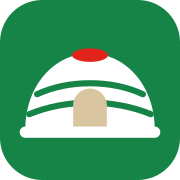
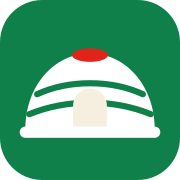
Применить утверждённую палитру З3 и Б1

Changed region(s): [[0.3889, 0.4722, 0.6111, 0.7222]]

diff --git a/assets/css/style.css b/assets/css/style.css
@@ -28,14 +28,14 @@
 
 /* ---------- Tokens ---------- */
 :root {
-  --green: #178447;        /* зелёный рамки коробок, на тон глубже ради контраста белого текста */
-  --green-deep: #126B3A;
-  --green-night: #0B4A28;
+  --green: #0F8049;        /* З3 по карте цветов */
+  --green-deep: #0D6A3D;
+  --green-night: #0A4A2B;
   --green-soft: #E4F1E8;
   --red: #C62025;          /* красный заголовков на коробках */
-  --beige: #D9C5A0;        /* бежевый костюмов и юрты: плашки, вкладка «+», главное действие */
-  --beige-light: #EBDDC2;
-  --beige-soft: #F1E7D3;
+  --beige: #F6EEDF;        /* Б1 по карте цветов, светлый молочный */
+  --beige-light: #FBF6ED;
+  --beige-soft: #F3E9D9;
   --ink: #16201A;
   --ink-2: #3D4A41;
   --paper: #F3F6F1;
@@ -151,7 +151,7 @@ p, li, dd { text-wrap: pretty; }
 .langcard__deck span:first-child { transform: rotate(5deg) translate(14px, 10px); opacity: .55; }
 .langcard__deck span:last-child { transform: rotate(2.5deg) translate(6px, 4px); opacity: .8; }
 .langcard__card { position: relative; min-height: clamp(400px, 28vw + 120px, 540px); border-radius: 4px var(--radius) var(--radius) var(--radius); background: var(--card); color: var(--ink); box-shadow: var(--shadow-lift); transform-style: preserve-3d; backface-visibility: hidden; }
-.langcard__card::before { content: ""; position: absolute; inset: 12px; border: 1.5px solid rgba(23, 132, 71, .35); border-radius: 14px; pointer-events: none; }
+.langcard__card::before { content: ""; position: absolute; inset: 12px; border: 1.5px solid rgba(15, 128, 73, .35); border-radius: 14px; pointer-events: none; }
 .langcard__face, .langcard__plus { position: relative; height: 100%; min-height: inherit; padding: clamp(1.6rem, 1rem + 2vw, 2.6rem); display: flex; flex-direction: column; }
 .langcard__word { margin-top: .4rem; font: 800 clamp(3rem, 1.6rem + 4.6vw, 5.75rem)/.95 var(--font-display); letter-spacing: -.02em; color: var(--red); overflow-wrap: anywhere; }
 .langcard__name { margin-top: .9rem; display: flex; flex-wrap: wrap; align-items: center; gap: .5rem .75rem; font-size: 1.0625rem; font-weight: 600; color: var(--ink-2); }
@@ -174,7 +174,7 @@ p, li, dd { text-wrap: pretty; }
 .triad { display: grid; gap: .1rem; padding-block: .4rem; font: 700 clamp(1.5rem, 1.1rem + 1.4vw, 2.25rem)/1.18 var(--font-display); color: var(--ink); }
 .triad em { font-style: normal; color: var(--green); }
 .alphabet { background: var(--card); border-radius: var(--radius); padding: clamp(1.25rem, 1rem + 1.5vw, 2rem); box-shadow: var(--shadow-card); position: relative; }
-.alphabet::before { content: ""; position: absolute; inset: 10px; border: 1.5px solid rgba(23, 132, 71, .3); border-radius: 14px; pointer-events: none; }
+.alphabet::before { content: ""; position: absolute; inset: 10px; border: 1.5px solid rgba(15, 128, 73, .3); border-radius: 14px; pointer-events: none; }
 .alphabet__grid { display: grid; grid-template-columns: repeat(3, 1fr); gap: 10px; }
 .alphabet__grid li { aspect-ratio: 1; display: grid; place-items: center; border-radius: 14px; background: var(--paper); font: 800 clamp(2.4rem, 1.6rem + 2.6vw, 3.75rem)/1 var(--font-display); color: var(--red); transition: transform .35s var(--ease-out), background-color .2s, color .2s; }
 .alphabet__grid li:nth-child(3n + 2) { color: var(--green); }
@@ -196,8 +196,8 @@ p, li, dd { text-wrap: pretty; }
 .filter .tab.is-active { background: var(--green); color: #fff; }
 .games__grid { margin-top: clamp(1.5rem, 1rem + 1.5vw, 2.25rem); display: grid; grid-template-columns: repeat(auto-fill, minmax(min(100%, 270px), 1fr)); grid-auto-flow: dense; gap: clamp(14px, 1.4vw, 22px); }
 .game { position: relative; display: flex; flex-direction: column; background: var(--card); border-radius: var(--radius); box-shadow: 0 0 0 1px var(--line); transition: box-shadow .3s var(--ease-out), transform .35s var(--ease-out); }
-.game::before { content: ""; position: absolute; inset: 7px; border: 1px solid rgba(23, 132, 71, .16); border-radius: 16px; pointer-events: none; }
-.game:hover { box-shadow: 0 0 0 1px rgba(23, 132, 71, .45), var(--shadow-card); transform: translateY(-3px); }
+.game::before { content: ""; position: absolute; inset: 7px; border: 1px solid rgba(15, 128, 73, .16); border-radius: 16px; pointer-events: none; }
+.game:hover { box-shadow: 0 0 0 1px rgba(15, 128, 73, .45), var(--shadow-card); transform: translateY(-3px); }
 .game[hidden] { display: none; }
 .game__media { position: relative; aspect-ratio: 4 / 3; }
 .game__media img { position: absolute; top: 16px; left: 16px; width: calc(100% - 32px); height: calc(100% - 24px); object-fit: contain; }
@@ -262,7 +262,7 @@ p, li, dd { text-wrap: pretty; }
 .docs { display: grid; gap: clamp(2.25rem, 1.5rem + 2vw, 3.5rem); }
 .docs .carousel__track { grid-auto-columns: 32%; }
 .letter { position: relative; display: grid; grid-template-columns: 36% minmax(0, 1fr); gap: 1rem; height: 100%; padding: 12px; border-radius: 18px; background: var(--card); box-shadow: 0 0 0 1px var(--line); transition: transform .35s var(--ease-out), box-shadow .3s var(--ease-out); }
-.letter:hover { transform: translateY(-3px); box-shadow: 0 0 0 1px rgba(23, 132, 71, .45), var(--shadow-card); }
+.letter:hover { transform: translateY(-3px); box-shadow: 0 0 0 1px rgba(15, 128, 73, .45), var(--shadow-card); }
 .letter a { display: block; align-self: start; padding: 5px; border-radius: 5px; background: #fff; box-shadow: 0 2px 10px -3px rgba(7, 63, 34, .35); }
 .letter a::after { content: ""; position: absolute; inset: 0; border-radius: inherit; } /* the whole card opens the document */
 .letter img { aspect-ratio: 520 / 735; width: 100%; object-fit: cover; object-position: top; border-radius: 2px; }
@@ -287,7 +287,7 @@ p, li, dd { text-wrap: pretty; }
 .team { position: relative; margin-top: clamp(2.5rem, 2rem + 2.5vw, 4rem); }
 .team .carousel__track { position: relative; z-index: 2; grid-auto-columns: 212px; }
 .person { display: block; width: 100%; height: 100%; padding: .7rem .9rem .75rem; border: 0; border-radius: 14px; background: var(--card); color: var(--ink); text-align: left; cursor: pointer; box-shadow: 0 0 0 1px var(--line); transition: background-color .2s, color .2s, box-shadow .25s var(--ease-out); }
-.person:hover { box-shadow: 0 0 0 1px rgba(23, 132, 71, .45), var(--shadow-card); }
+.person:hover { box-shadow: 0 0 0 1px rgba(15, 128, 73, .45), var(--shadow-card); }
 .person[aria-expanded="true"] { background: var(--green); color: #fff; box-shadow: none; }
 .person__name { display: block; font: 700 1rem/1.22 var(--font-display); }
 .person__role { display: block; margin-top: .2rem; font-size: .8125rem; line-height: 1.3; color: var(--ink-2); }

diff --git a/index.html b/index.html
@@ -5,7 +5,7 @@
   <meta name="viewport" content="width=device-width, initial-scale=1">
   <title>Юрта знаний — настольные игры для изучения башкирского языка и культуры</title>
   <meta name="description" content="«Юрта знаний» — серия настольно-дидактических игр Елены Нагимовой: башкирский, татарский и английский языки, культура и история родного края через игру. Одобрено учебно-методическим советом Минобрнауки РБ.">
-  <meta name="theme-color" content="#178447">
+  <meta name="theme-color" content="#0F8049">
   <meta property="og:type" content="website">
   <meta property="og:locale" content="ru_RU">
   <meta property="og:title" content="Юрта знаний — играя, изучай свой край">
